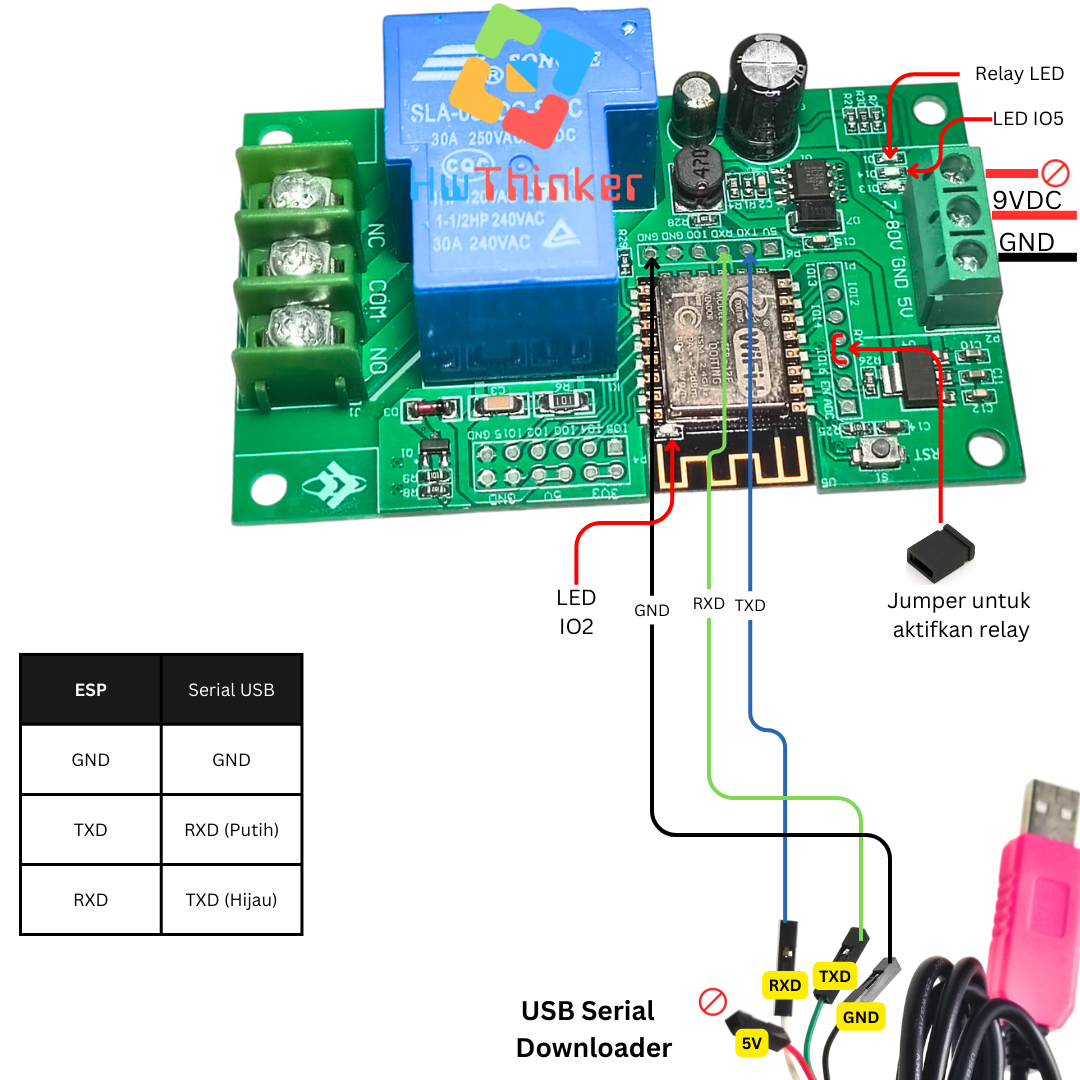
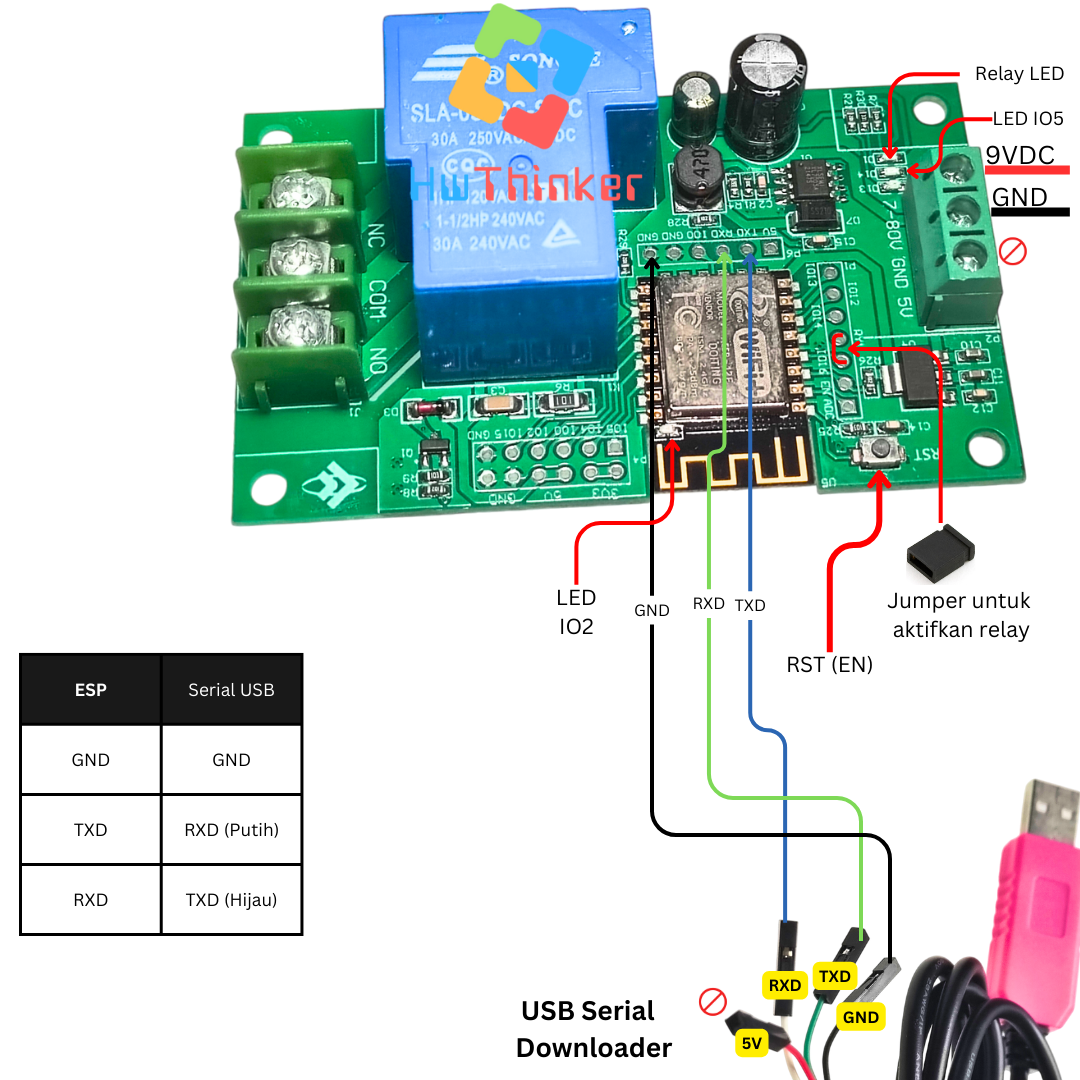
update readme

Changed region(s): [[0.9167, 0.1222, 1.0, 0.2444], [0.7333, 0.4278, 0.825, 0.6417]]

diff --git a/README.md b/README.md
@@ -1,5 +1,6 @@
 # ESP8266 Relay 1 Channel 30A
 ### Diskripsi
+![](https://github.com/hwthinker/esp8266-relay1ch-30A/blob/main/picture/3.png)
 Proyek ini menggunakan modul ESP8266 untuk mengontrol relay 1-channel 30A dengan konfigurasi GPIO sebagai berikut:
 
 - Relay: GPIO 16 
@@ -17,7 +18,7 @@ Indikasi status melalui LED ESP dan LED pada board.
 Menggunakan modul ESP8266 dengan koneksi nirkabel untuk kontrol jarak jauh.
 
 ## Cara download dengan jumper
-![](https://github.com/hwthinker/esp8266-relay1ch-30A/blob/main/picture/1.png)
+![](https://github.com/hwthinker/esp8266-relay1ch-30A/blob/main/picture/3.png)
 - Pasang serial USB TTL dengan ketentuan: 
    - TX -> RX USB Serial (Kabel Putih)
    - RX -> TX USB Serial (Kabel Hijau)
